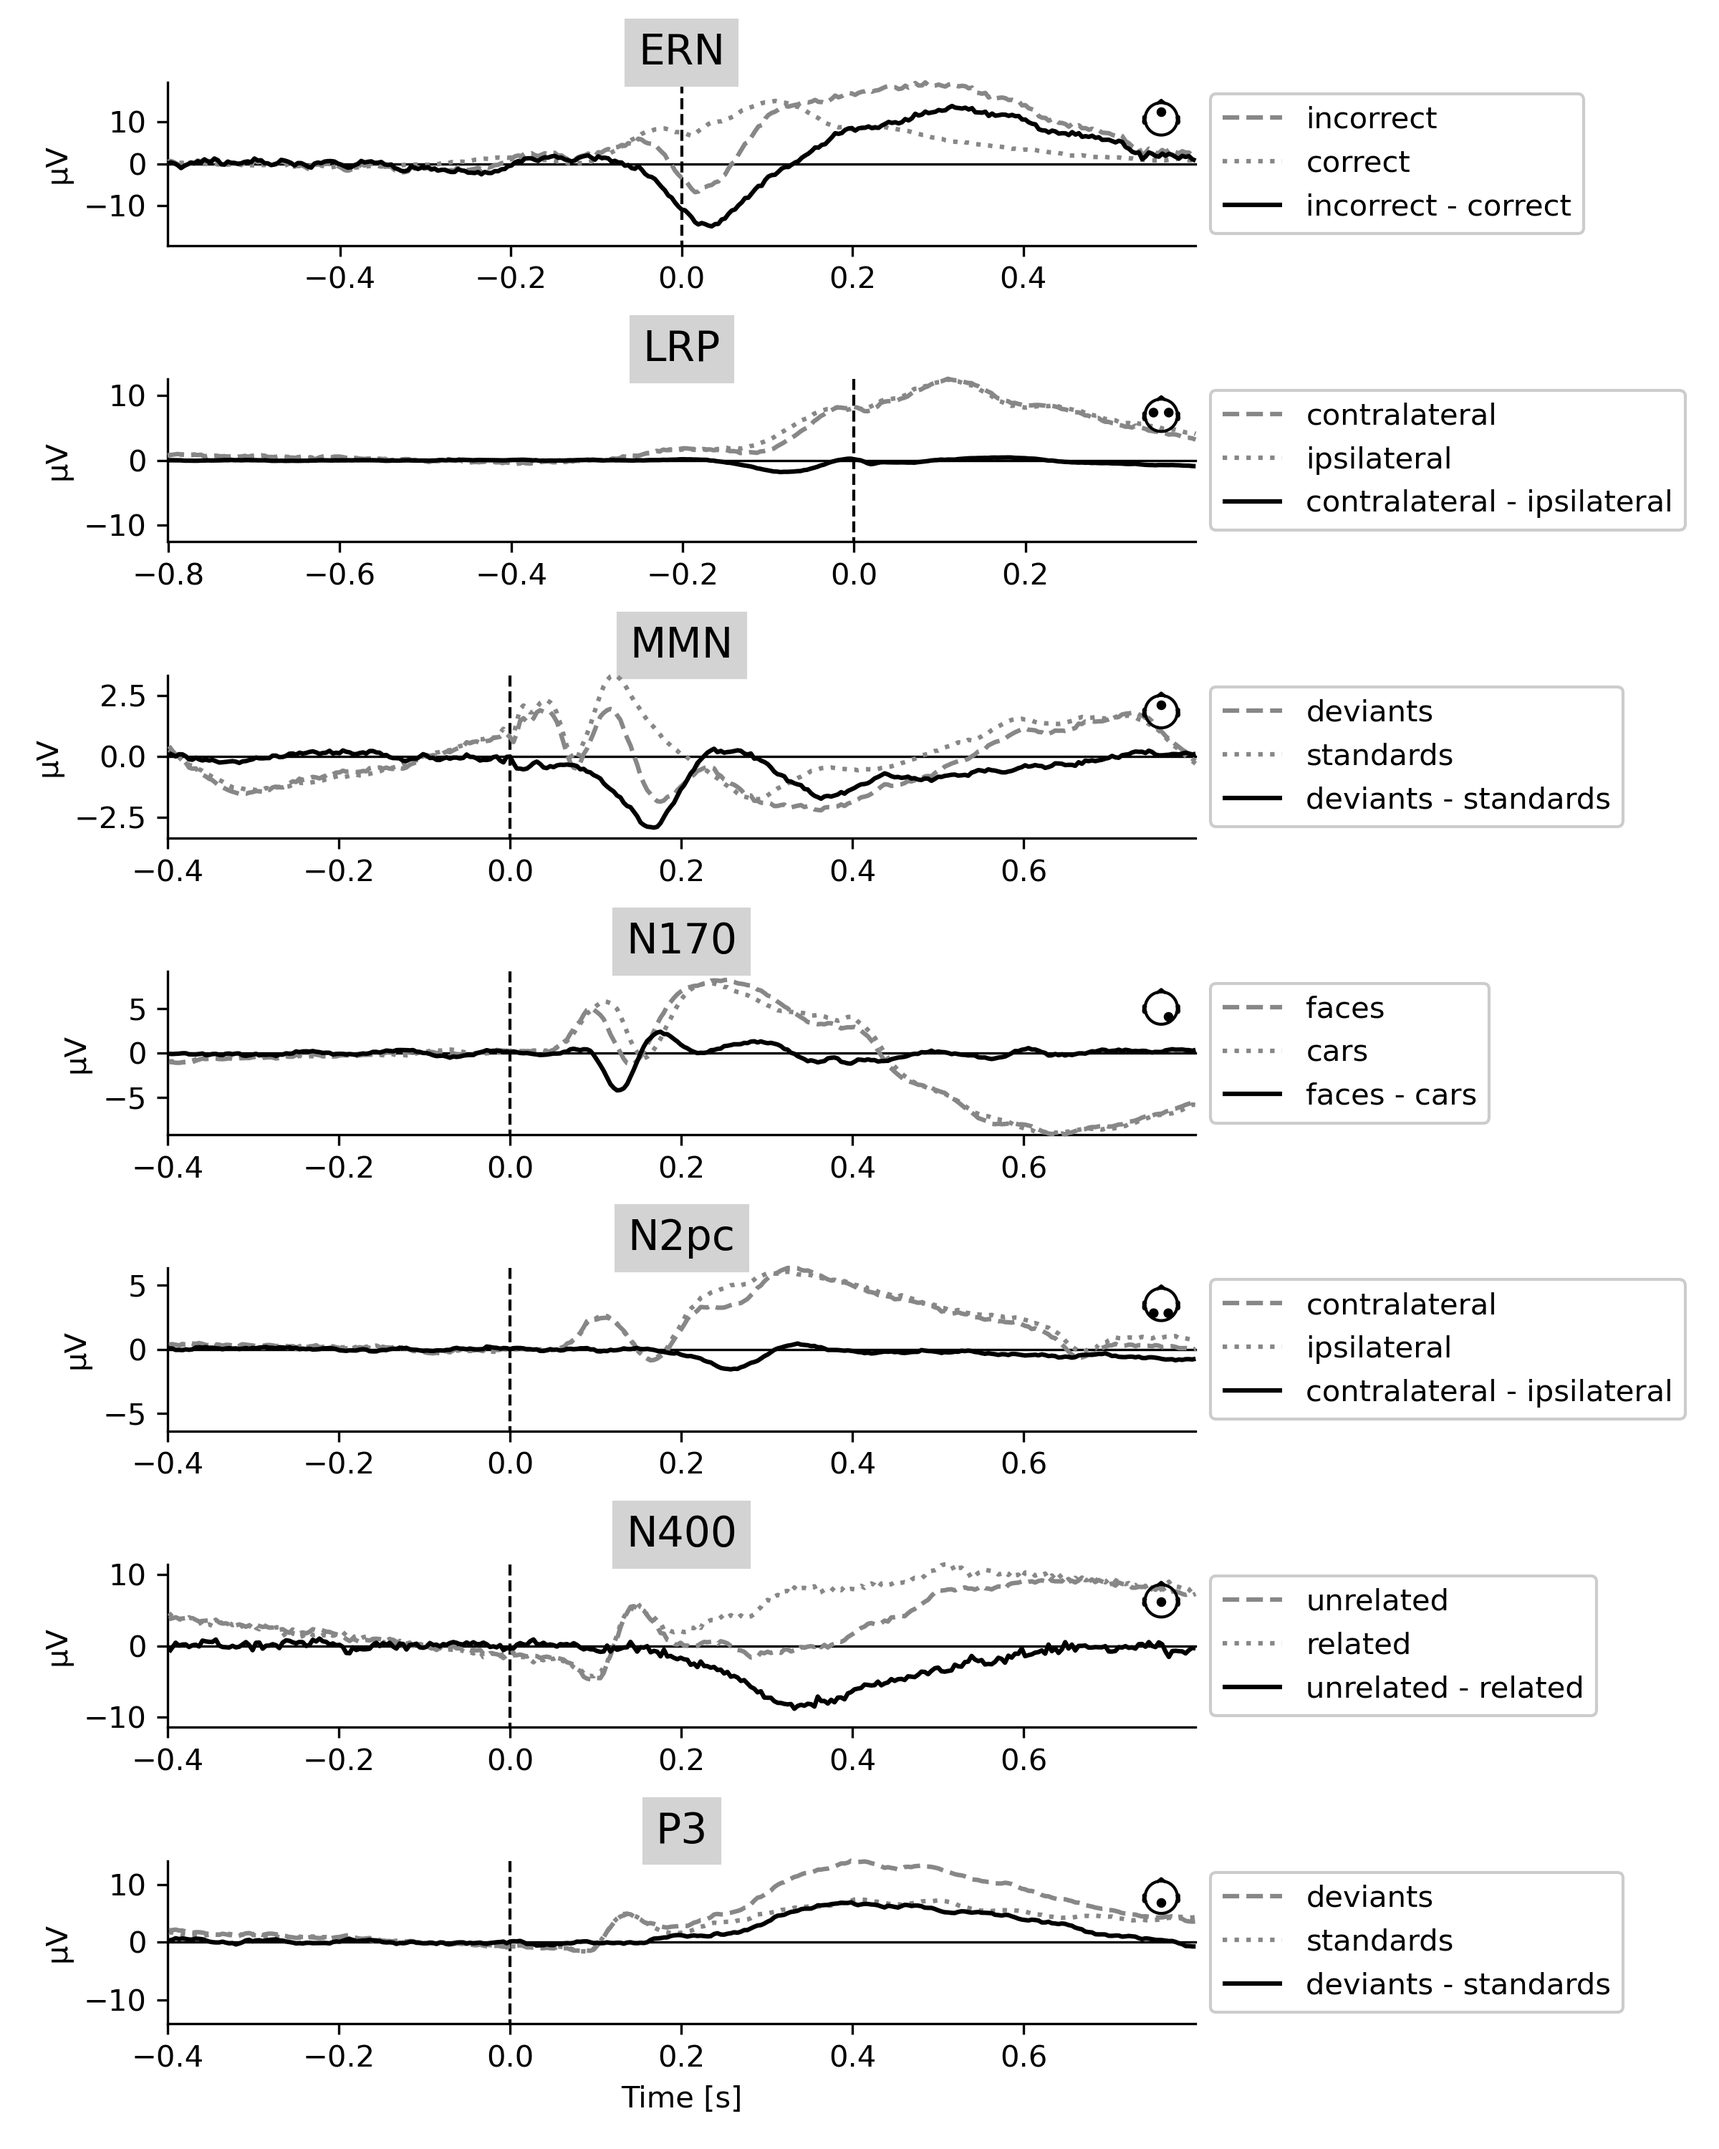
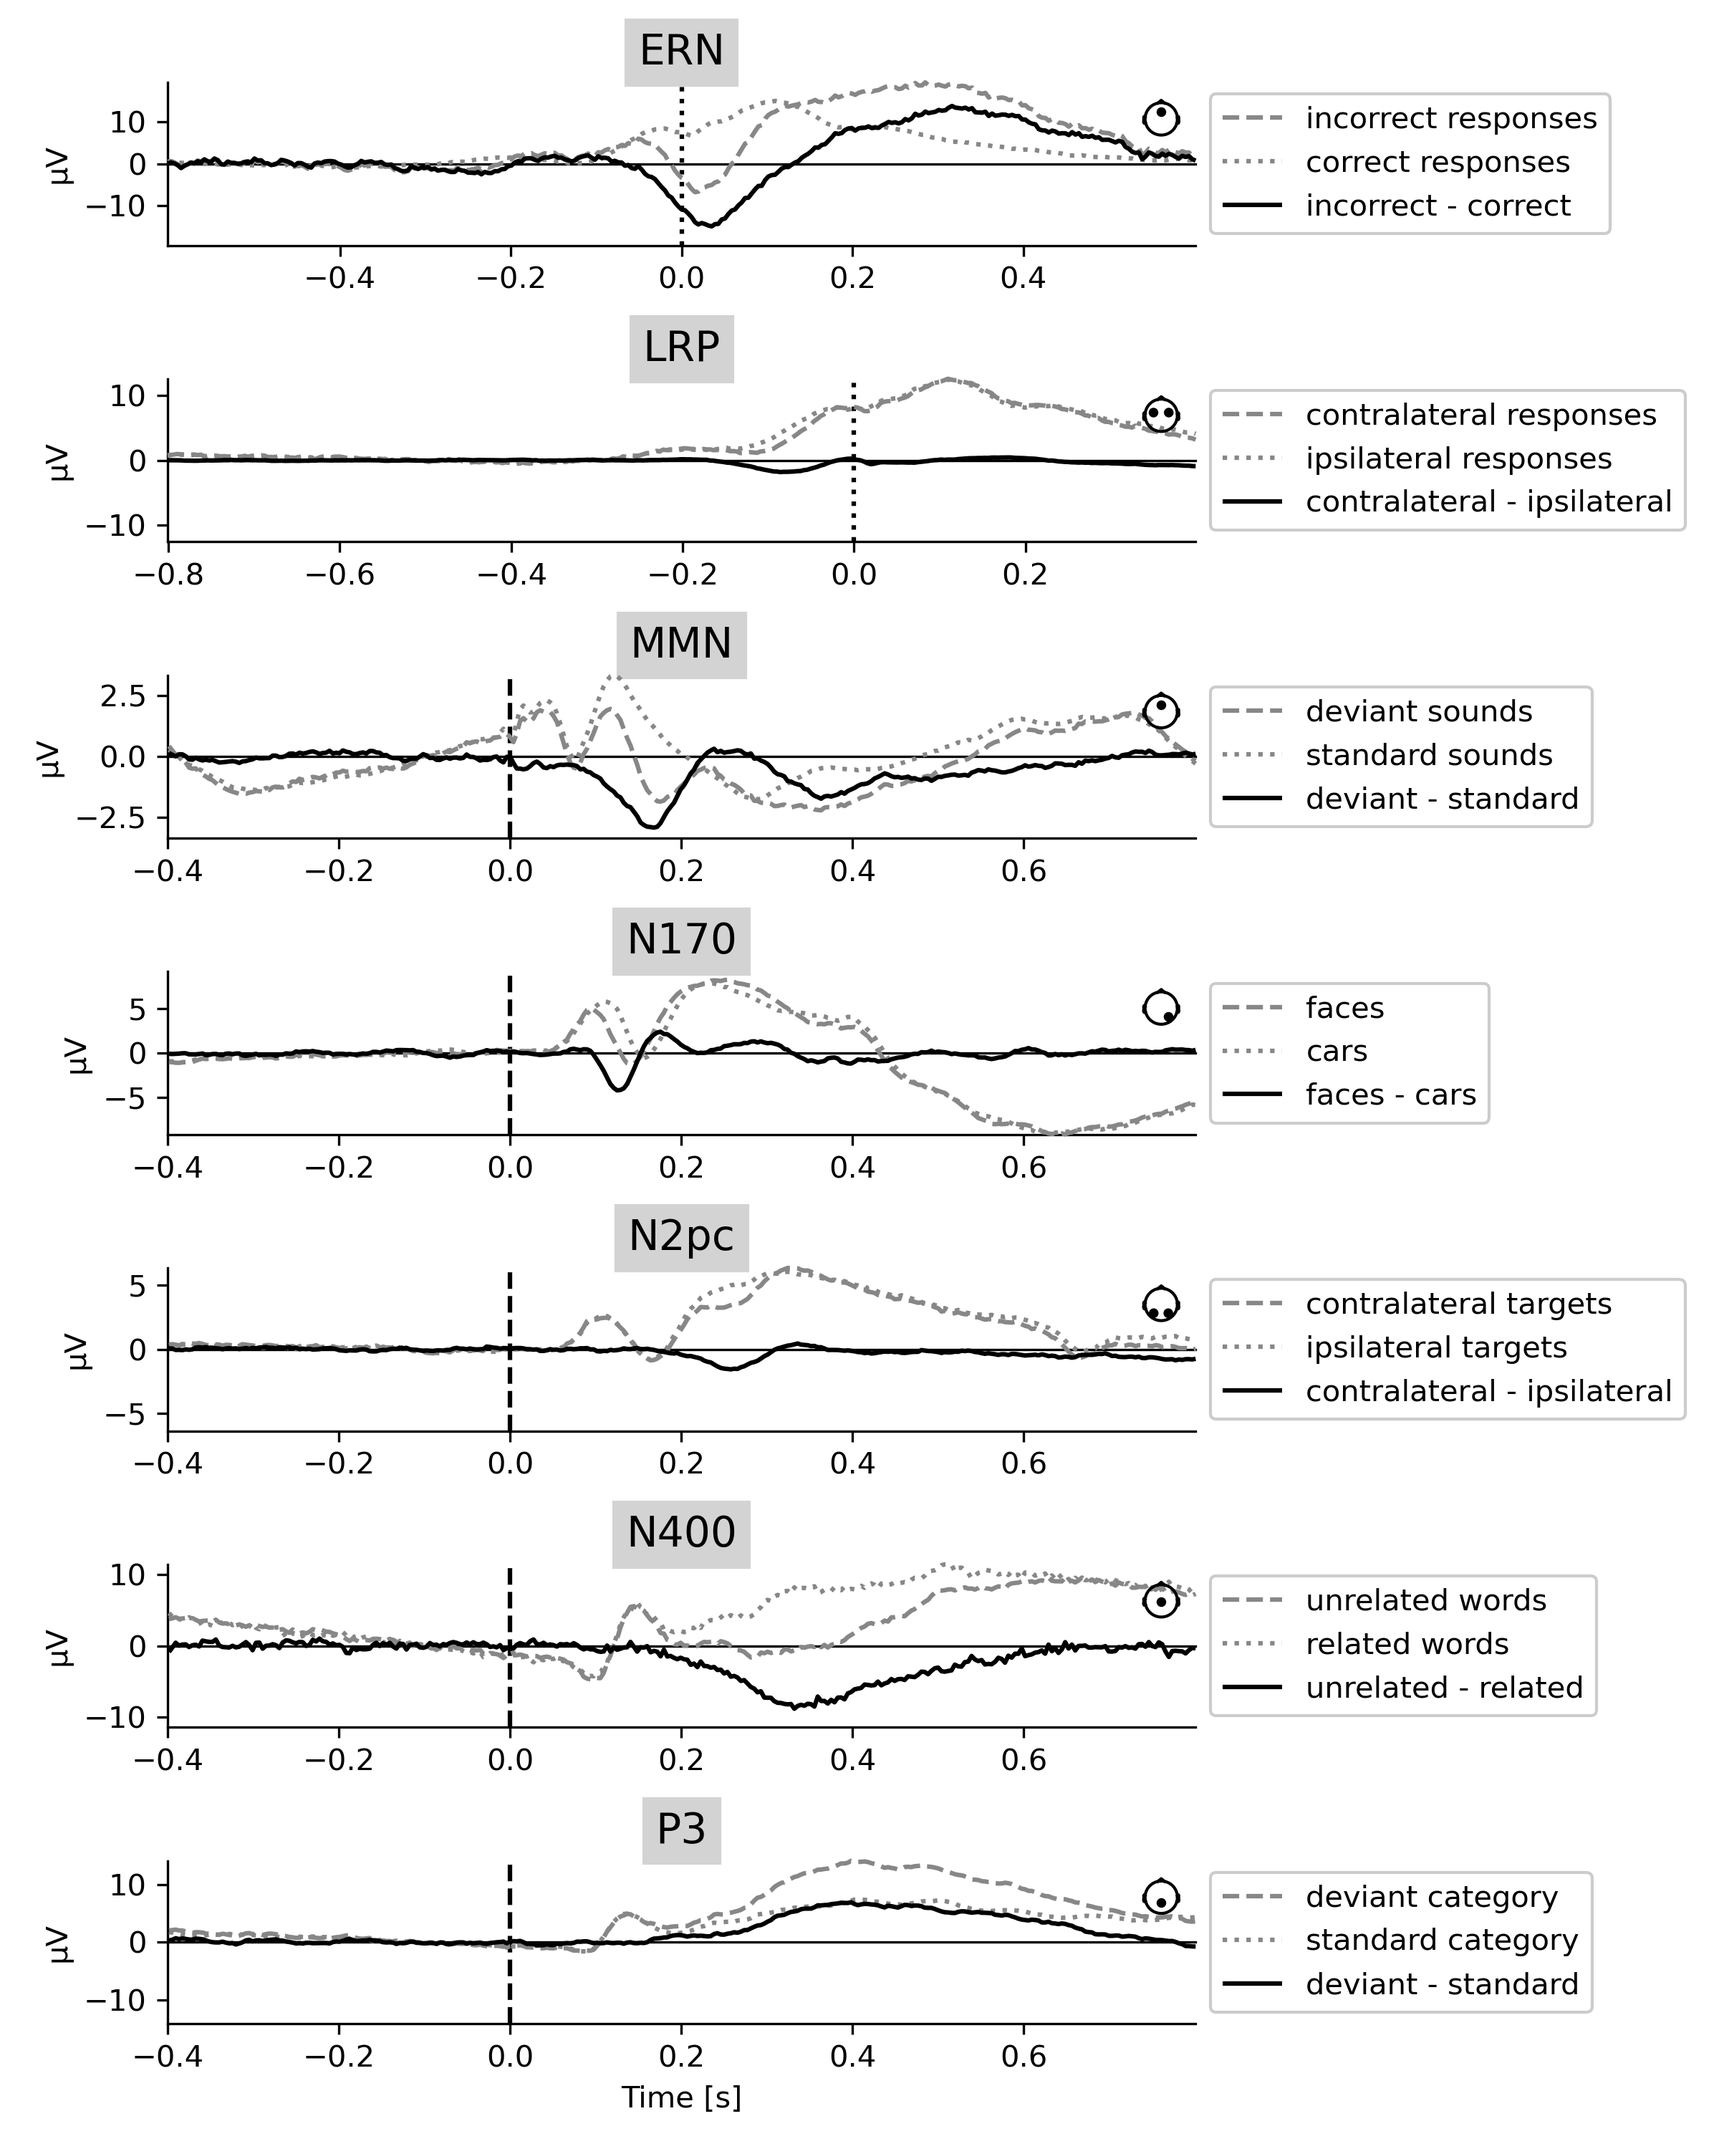
beatified evoked and tr_luck figures

diff --git a/src/3-evoked.py b/src/3-evoked.py
@@ -206,6 +206,39 @@ with open(f'{model_dir}/evoked.pck', 'rb') as handle:
 
 """ plotting """
 
+# get min and max values
+# min_val, max_val = 0, 0
+# for experiment in experiments:
+#     for key in list(group_results_combined[experiment].keys()):
+#         for condition in group_results_combined[experiment][key].keys():
+#             min_val = min(min_val, np.min(group_results_combined[experiment][key][condition].data))
+#             max_val = max(max_val, np.max(group_results_combined[experiment][key][condition].data))
+#             print()
+# TODO if used then x 1 mio
+# TODO, if done, the max value is a weird number, why that?
+
+# new, re-label the conditions according to feedback from MS
+# also everything in plural, and replace ALL categories, so they are ordered correctly with the linetypes in the plot
+group_results_combined["ERN"]["FCz"]["incorrect responses"] = group_results_combined["ERN"]["FCz"].pop("incorrect")
+group_results_combined["ERN"]["FCz"]["correct responses"] = group_results_combined["ERN"]["FCz"].pop("correct")
+group_results_combined["ERN"]["FCz"]["incorrect - correct"] = group_results_combined["ERN"]["FCz"].pop("incorrect - correct")
+group_results_combined["LRP"]["C3/C4"]["contralateral responses"] = group_results_combined["LRP"]["C3/C4"].pop("contralateral")
+group_results_combined["LRP"]["C3/C4"]["ipsilateral responses"] = group_results_combined["LRP"]["C3/C4"].pop("ipsilateral")
+group_results_combined["LRP"]["C3/C4"]["contralateral - ipsilateral"] = group_results_combined["LRP"]["C3/C4"].pop("contralateral - ipsilateral")
+group_results_combined["MMN"]["FCz"]["deviant sounds"] = group_results_combined["MMN"]["FCz"].pop("deviants")
+group_results_combined["MMN"]["FCz"]["standard sounds"] = group_results_combined["MMN"]["FCz"].pop("standards")
+group_results_combined["MMN"]["FCz"]["deviant - standard"] = group_results_combined["MMN"]["FCz"].pop("deviants - standards")
+# N170 no renaming
+group_results_combined["N2pc"]["PO7/PO8"]["contralateral targets"] = group_results_combined["N2pc"]["PO7/PO8"].pop("contralateral")
+group_results_combined["N2pc"]["PO7/PO8"]["ipsilateral targets"] = group_results_combined["N2pc"]["PO7/PO8"].pop("ipsilateral")
+group_results_combined["N2pc"]["PO7/PO8"]["contralateral - ipsilateral"] = group_results_combined["N2pc"]["PO7/PO8"].pop("contralateral - ipsilateral")
+group_results_combined["N400"]["CPz"]["unrelated words"] = group_results_combined["N400"]["CPz"].pop("unrelated")
+group_results_combined["N400"]["CPz"]["related words"] = group_results_combined["N400"]["CPz"].pop("related")
+group_results_combined["N400"]["CPz"]["unrelated - related"] = group_results_combined["N400"]["CPz"].pop("unrelated - related")
+group_results_combined["P3"]["Pz"]["deviant category"] = group_results_combined["P3"]["Pz"].pop("deviants")
+group_results_combined["P3"]["Pz"]["standard category"] = group_results_combined["P3"]["Pz"].pop("standards")
+group_results_combined["P3"]["Pz"]["deviant - standard"] = group_results_combined["P3"]["Pz"].pop("deviants - standards")
+
 colors = ['#878787', '#878787', 'k'] # ['#a6cee3', '#1f78b4', '#b2df8a']
 linestyles = ['dashed', 'dotted', 'solid']
 n_subfigures = len(experiments)
@@ -234,6 +267,7 @@ for ax_counter, experiment in enumerate(experiments):
                                 #ci=0.95, # this doesnt work with dashed?
                                 truncate_xaxis=False,
                                 truncate_yaxis=False,
+                                vlines = [], #list of x values or 'auto'=DEFAULT, will draw one at x=0
                                 show=False)[0]
     # turn x axis label description off in all but last axis
     if ax_counter < (n_subfigures - 1):
@@ -253,6 +287,12 @@ for ax_counter, experiment in enumerate(experiments):
     
     #ax[ax_counter].legend(facecolor='white', framealpha=1, loc='upper left') # BUG framealpha does never work
     ax[ax_counter].legend(facecolor='white', framealpha=1, loc='center left', bbox_to_anchor=(1, 0.5)) # BUG framealpha does never work
+    
+    # new: manual vlines
+    if experiment in ["LRP", "ERN"]:
+        ax[ax_counter].axvline(0., color='k', linestyle=':') # response onset
+    else:      
+        ax[ax_counter].axvline(0., color='k', linestyle='--') # stimulus onset
     
     
     

diff --git a/src/5b-sliding_group.py b/src/5b-sliding_group.py
@@ -194,6 +194,10 @@ for experiment in experiments_erpcore:
 dfs_single = pd.concat(dfs_single)
 dfs_single
 
+
+# Calculate the y-axis limit
+max_y = max(0.7, dfs_single['Accuracy'].max()) # new, to make the axis nicer, include 0.7
+
 # plot
 
 g = sns.relplot(data=dfs_single, 
@@ -211,8 +215,15 @@ g = sns.relplot(data=dfs_single,
 
 axes = g.fig.axes
 for ax, experiment in zip(axes, experiments_erpcore):
+    # new, include 0.7
+    ax.set_ylim(.45, max_y)
+    
     ax.axhline(0.5, color='k', linestyle='-')
-    ax.axvline(0., color='k', linestyle='--')
+    if experiment in ["LRP", "ERN"]:
+        ax.axvline(0., color='k', linestyle=':') # response onset
+    else:      
+        ax.axvline(0., color='k', linestyle='--') # stimulus onset
+    
     ax.set_title(experiment)
     ax.title.set_backgroundcolor('lightgrey')
     ax.title.set_fontsize(14)
